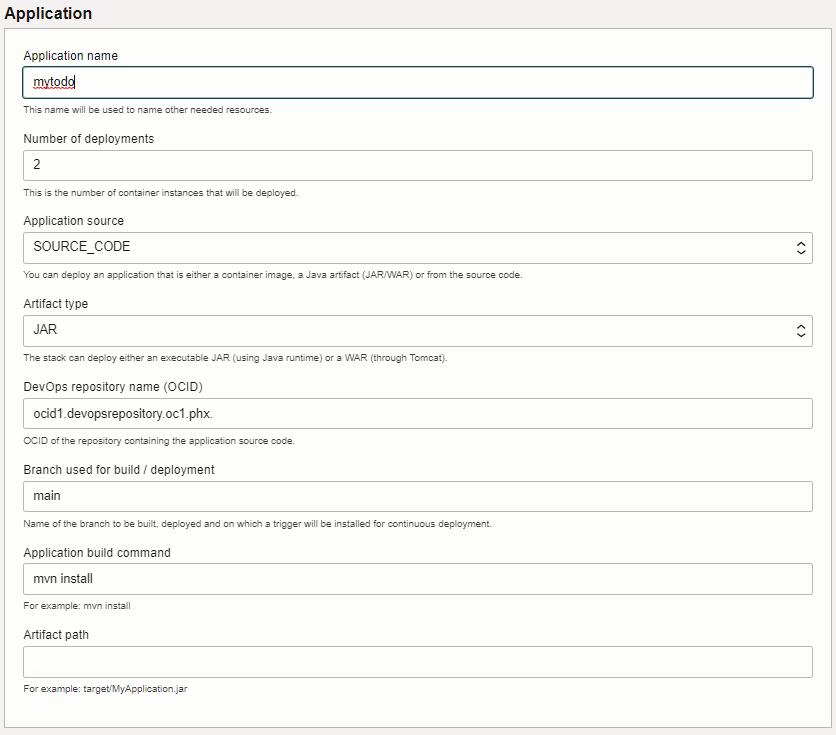
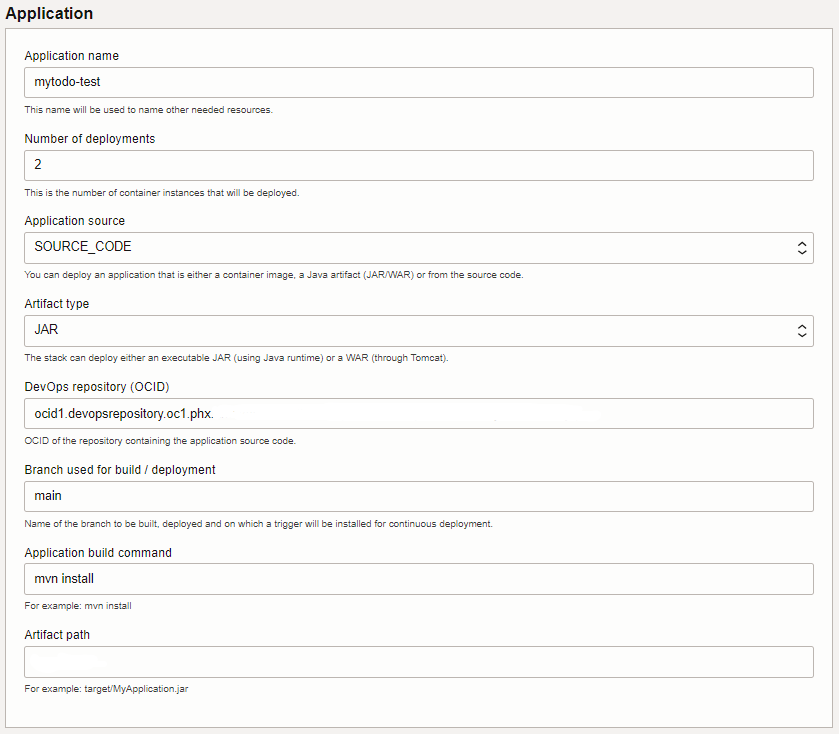
Corrected DevOps repository (OCID)

diff --git a/usage_instructions.md b/usage_instructions.md
@@ -25,7 +25,7 @@ The stack supports different kinds of deployments: *source code* deployment, jav
        - WAR: If your application is packaged as a Web Archive. The WAR will be deployed in a Tomcat Server. This Tomcat Server will be started using the JVM Options provided in the "Other Parameters" section.
 
   - If the *application source* is *source code*: 
-       - **DevOps repository name (OCID):** OCID of the repository containing the *source code* of the application
+       - **DevOps repository (OCID):** OCID of the repository containing the *source code* of the application
        - **Branch used for build/deployment:** name of the branch to build a deploy. A build trigger will be added so that the application is built and deployed each time a change is made to this branch.
        - **Application build command:** command used to build the application. This command will be used by the build pipeline to build the application.
        - **Artifact path:** The path to the generated application *artifact* (jar or war file) after the build command has run.
